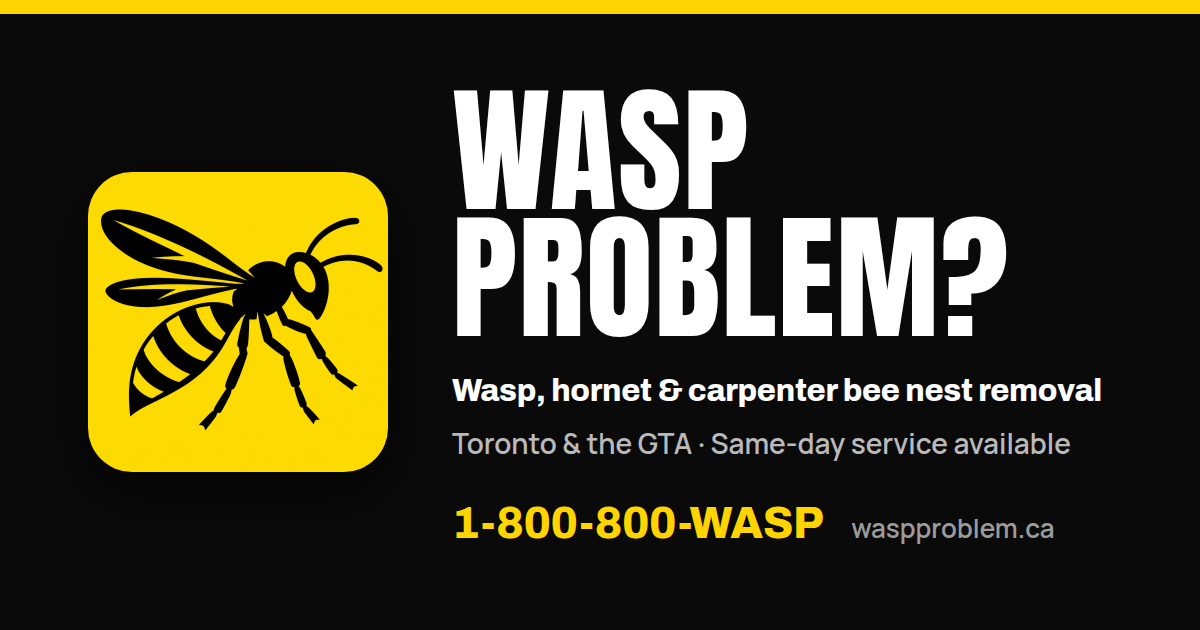
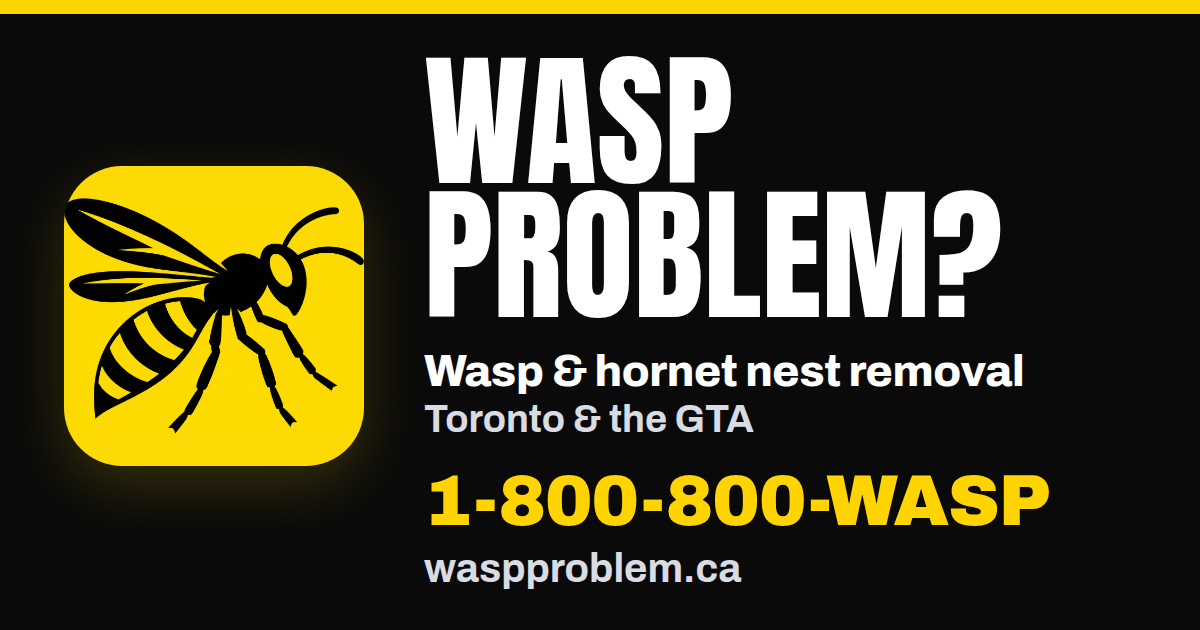
Redo the link preview used when the site URL is texted or shared
New 1200x630 share card (app/opengraph-image.png): the wasp icon, the
"WASP PROBLEM?" sign lockup, "Wasp & hornet nest removal", "Toronto & the
GTA", 1-800-800-WASP and waspproblem.ca, in the site's own fonts. Fewer,
larger lines than the old card so it stays legible as a small thumbnail
(checked at 300px and 150px wide). 136 KB PNG.

The old card said "carpenter bee" (the owner wants bees described
generically) and "Same-day service available" without "based on
availability" (AGENTS.md rule 9); the new one makes neither claim. Alt
text updated to match.

og:title and og:description (and twitter:*) are now SHARE_PREVIEW in
lib/site.ts: "Wasp Nest Removal in Toronto & the GTA" (38 characters) and
"Wasp and hornet nest removal across Toronto and the GTA. Upfront
pricing, 90-day service guarantee. Call 1-800-800-WASP." They are kept
separate from the search <title> and meta description, which are
unchanged, as are canonical, og:url and the sitemap.

Checked locally as Apple, Facebook, WhatsApp, Slack, X, Google and
Google Messages-style fetchers: page 200 with the tags in the first
response; image 200, image/png, no redirects. robots.txt allows all.

Not changed: the host. Everything still uses https://waspproblem.ca
(BRAND.url); whether www or the bare domain is Vercel's primary has to
be confirmed there before switching.

Claude-Session: https://claude.ai/code/session_018JEc2nbVfT5XA799Foyhh2

Changed region(s): [[0.0308, 0.0905, 0.925, 0.7841], [0.3392, 0.754, 0.8942, 0.9349]]

diff --git a/wasp-problem/app/layout.tsx b/wasp-problem/app/layout.tsx
@@ -6,7 +6,7 @@ import "./globals.css";
 import { PhoneLink } from "@/components/PhoneLink";
 import { StickyCallBar } from "@/components/StickyCallBar";
 import { TextLink } from "@/components/TextLink";
-import { BRAND, GA_MEASUREMENT_ID, PHONE_LOCAL, PHONE_TOLLFREE, SERVICE_AREAS } from "@/lib/site";
+import { BRAND, GA_MEASUREMENT_ID, PHONE_LOCAL, PHONE_TOLLFREE, SERVICE_AREAS, SHARE_PREVIEW } from "@/lib/site";
 import { PRICING } from "@/lib/pricing";
 
 /** Sign face — the heavy condensed grotesque matching the lawn-sign lettering. Used only for the "WASP PROBLEM?" lockup. */
@@ -46,8 +46,8 @@ export const metadata: Metadata = {
   description: BRAND.description,
   alternates: { canonical: BRAND.url },
   openGraph: {
-    title: HOME_TITLE,
-    description: BRAND.description,
+    title: SHARE_PREVIEW.title,
+    description: SHARE_PREVIEW.description,
     url: BRAND.url,
     siteName: BRAND.name,
     type: "website",
@@ -55,8 +55,8 @@ export const metadata: Metadata = {
   },
   twitter: {
     card: "summary_large_image",
-    title: HOME_TITLE,
-    description: BRAND.description,
+    title: SHARE_PREVIEW.title,
+    description: SHARE_PREVIEW.description,
   },
 };
 

diff --git a/wasp-problem/lib/site.ts b/wasp-problem/lib/site.ts
@@ -109,3 +109,18 @@ export const GA_MEASUREMENT_ID = "G-2NETZXNWVG";
  * review rather than read the existing ones.
  */
 export const GOOGLE_REVIEWS_URL = "https://maps.app.goo.gl/88UEFwzbGr9cp55t9" as const;
+
+/**
+ * What a link preview shows when the site URL is sent in a text message or
+ * shared (og:title / og:description / twitter:*), kept separate from the page's
+ * search <title> and meta description so tuning one never changes the other.
+ * Short on purpose: messaging apps cut titles off around 40-60 characters and
+ * descriptions after two lines. The brand is carried by og:site_name and the
+ * share image (app/opengraph-image.png), the phone number is spelled the way
+ * the signs spell it, and nothing here promises a response time. If it did,
+ * "same-day" would need "based on availability" beside it.
+ */
+export const SHARE_PREVIEW = {
+  title: "Wasp Nest Removal in Toronto & the GTA",
+  description: `Wasp and hornet nest removal across Toronto and the GTA. Upfront pricing, ${GUARANTEE.name}. Call ${PHONE_TOLLFREE.display}.`,
+} as const;

diff --git a/wasp-problem/AGENTS.md b/wasp-problem/AGENTS.md
@@ -103,6 +103,7 @@ These are not style preferences. Breaking one is a real-world problem for the ow
 | City landing pages | `lib/locations.ts` + `components/CityPage.tsx` |
 | Homepage section order | `app/page.tsx` |
 | Online request form (Resend delivery, env vars) | `lib/leads.ts`, `app/actions.ts`, `components/LeadForm*.tsx` |
+| Link preview when the URL is texted/shared (image, og title/description) | `app/opengraph-image.png` (+ `.alt.txt`), `SHARE_PREVIEW` in `lib/site.ts` |
 
 City pages don't inherit the `opengraph-image` file convention from the root — it is
 scoped per route segment, so `locationMetadata()` wires the share card explicitly.
